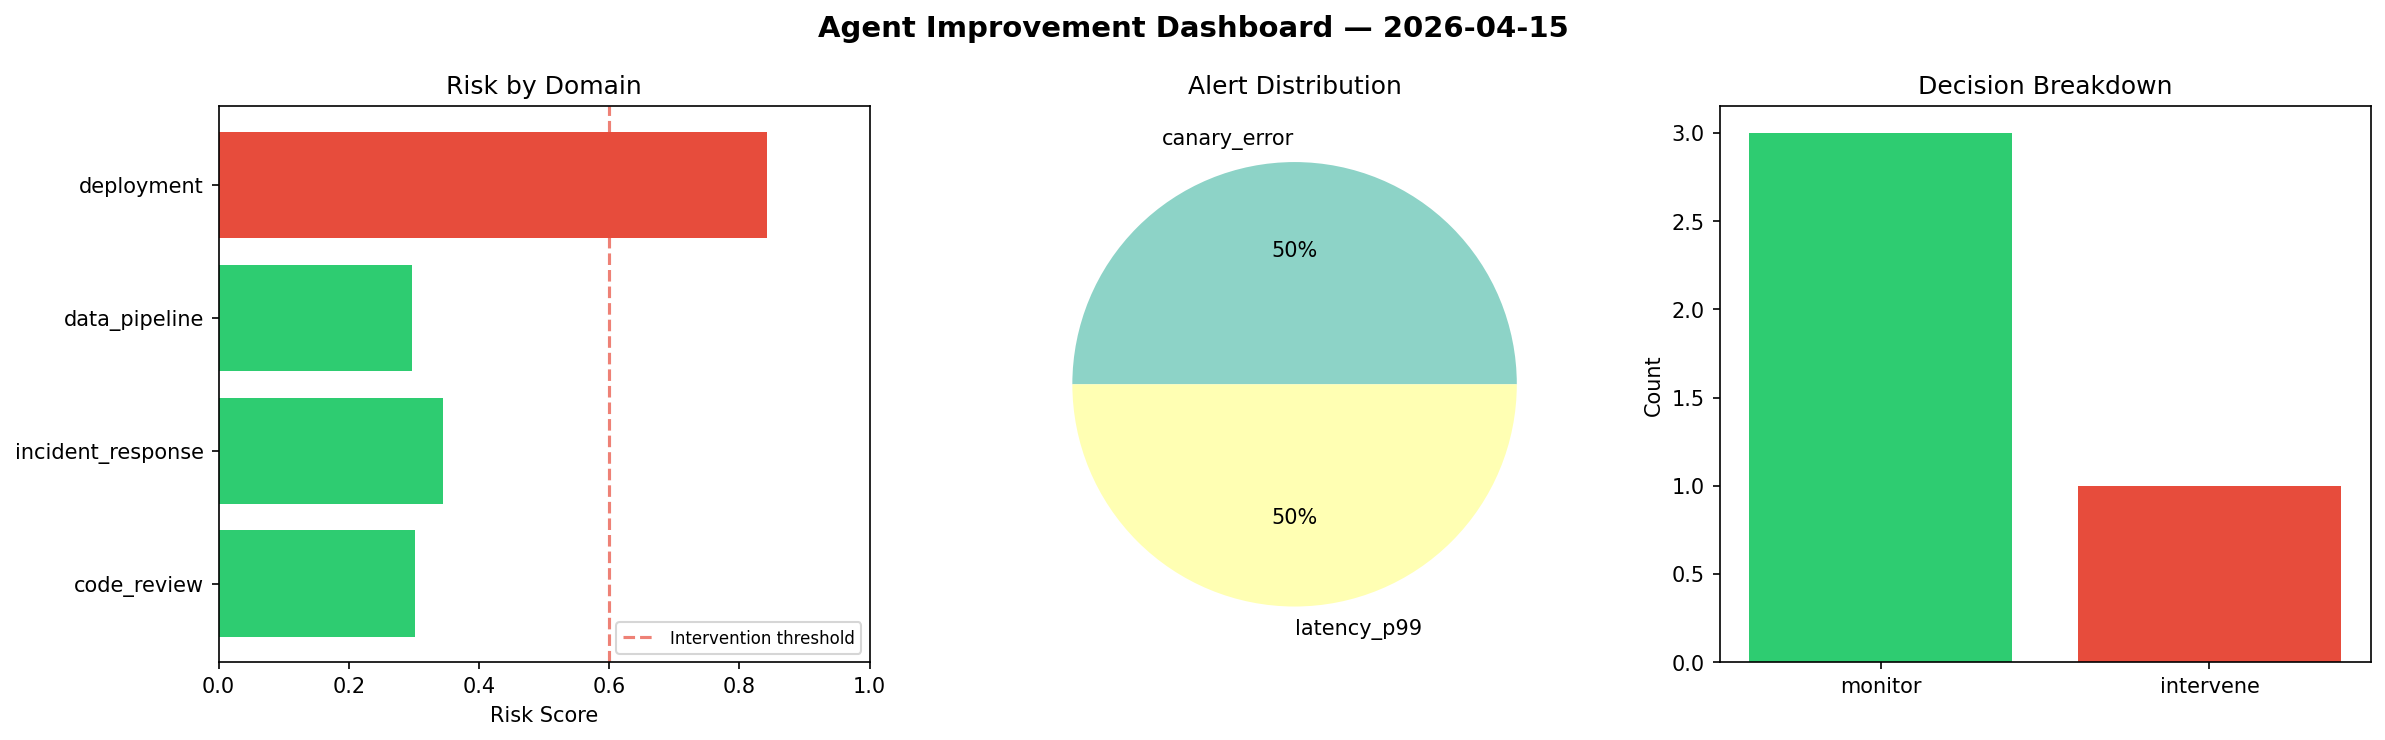
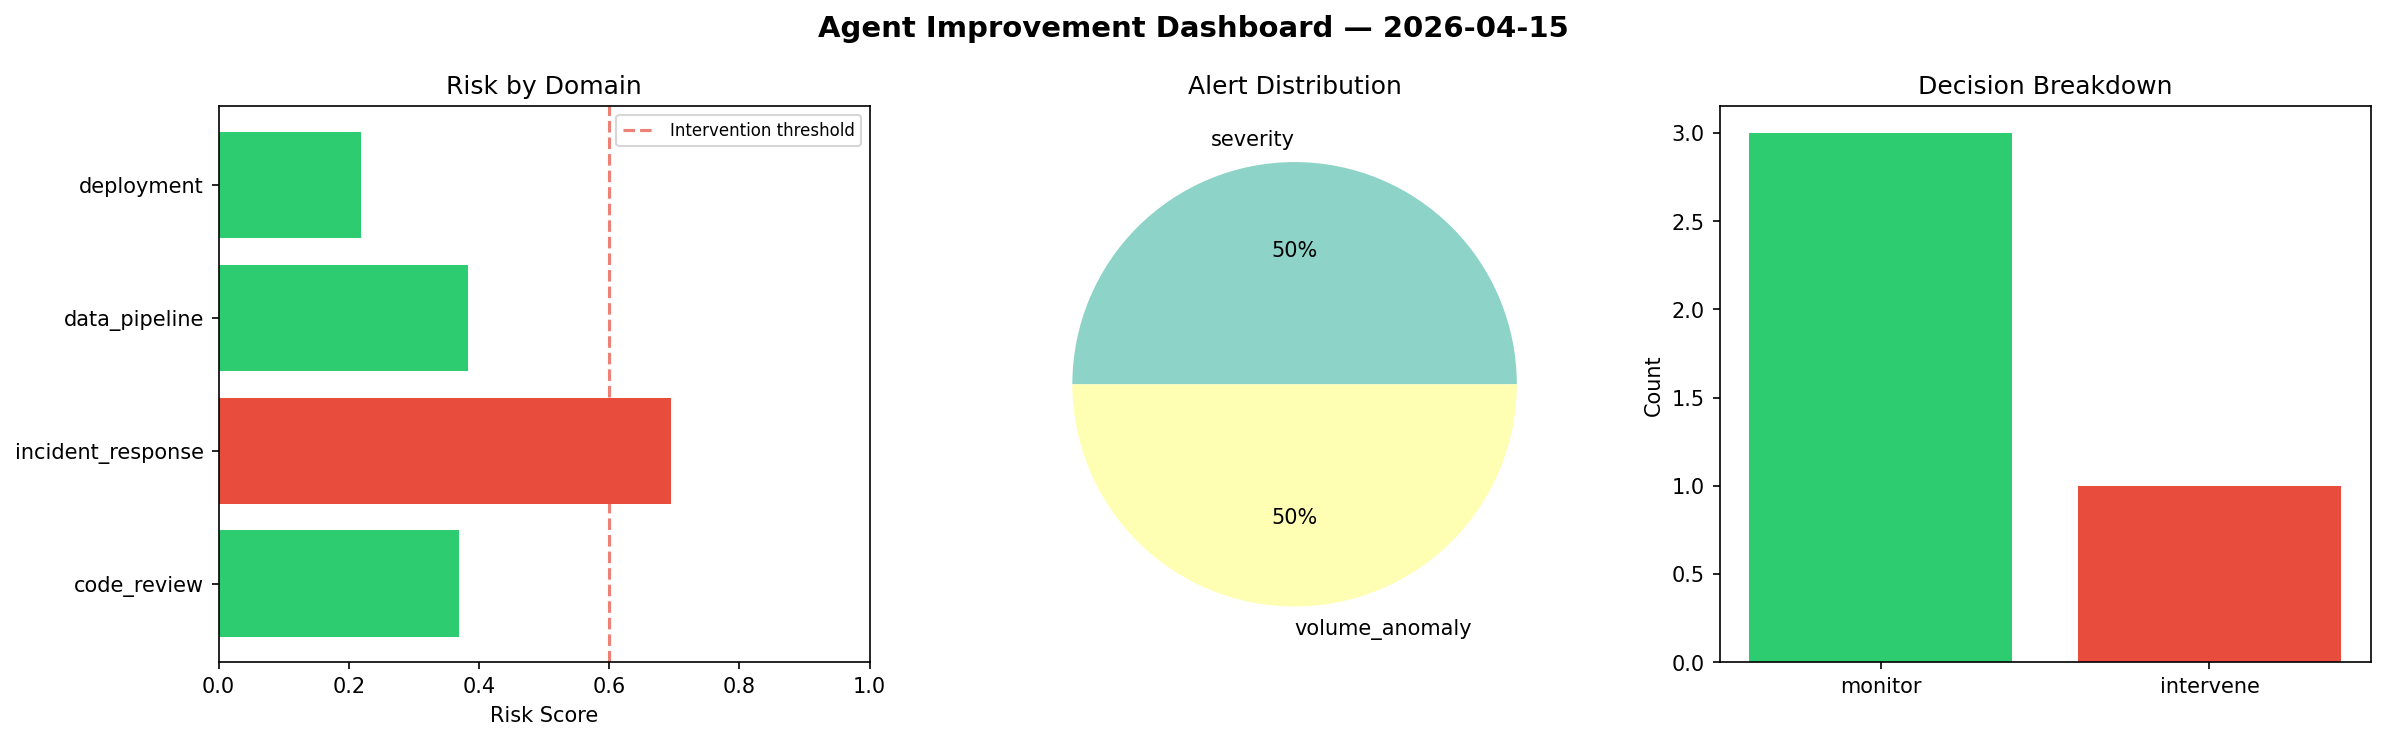
agent-improvement: daily cycle 2026-04-15T09:50

diff --git a/logs/2026-04-15.md b/logs/2026-04-15.md
@@ -1,6 +1,6 @@
 # Agent Improvement Report — 2026-04-15
 
-**Cycle ID:** `39464698` | **Avg Risk:** 0.4467 | **Interventions:** 1/4
+**Cycle ID:** `1c58afc8` | **Avg Risk:** 0.4166 | **Interventions:** 1/4
 
 ![Dashboard](2026-04-15_dashboard.png)
 
@@ -10,18 +10,18 @@
 
 | Domain | Risk Score | Decision | Alerts |
 |--------|-----------|----------|--------|
-| code_review | 0.3022 | monitor | none |
-| incident_response | 0.3448 | monitor | none |
-| data_pipeline | 0.2971 | monitor | none |
-| deployment | 0.8428 | intervene | canary_error, latency_p99 |
+| code_review | 0.3686 | monitor | none |
+| incident_response | 0.6951 | intervene | severity |
+| data_pipeline | 0.3834 | monitor | volume_anomaly |
+| deployment | 0.2194 | monitor | none |
 
 ## Delta vs Yesterday
 
 | Domain | Today | Yesterday | Change |
 |--------|-------|-----------|--------|
-| code_review | 0.3022 | 0.7387 | 📉 -59.1% |
-| incident_response | 0.3448 | 0.4387 | 📉 -21.4% |
-| data_pipeline | 0.2971 | 0.353 | 📉 -15.8% |
-| deployment | 0.8428 | 0.4191 | 📈 101.1% |
+| code_review | 0.3686 | 0.7387 | 📉 -50.1% |
+| incident_response | 0.6951 | 0.4387 | 📈 58.4% |
+| data_pipeline | 0.3834 | 0.353 | 📈 8.6% |
+| deployment | 0.2194 | 0.4191 | 📉 -47.6% |
 
-**Refinement:** `{'adjustment': 'tighten_thresholds', 'trend': 'degrading', 'window': 4}`
+**Refinement:** `{'adjustment': 'maintain', 'trend': 'improving', 'window': 4}`
